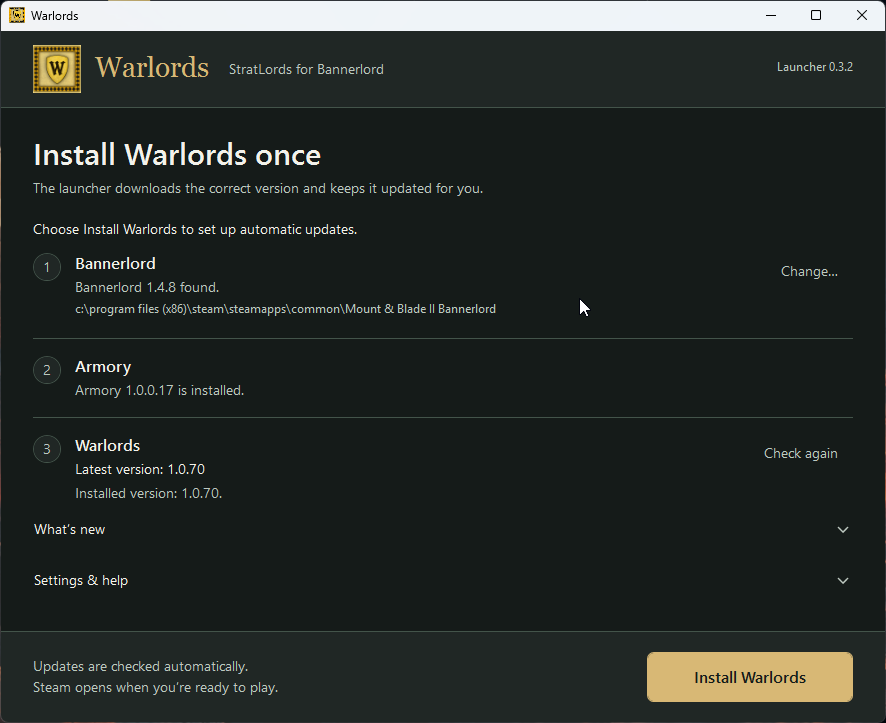
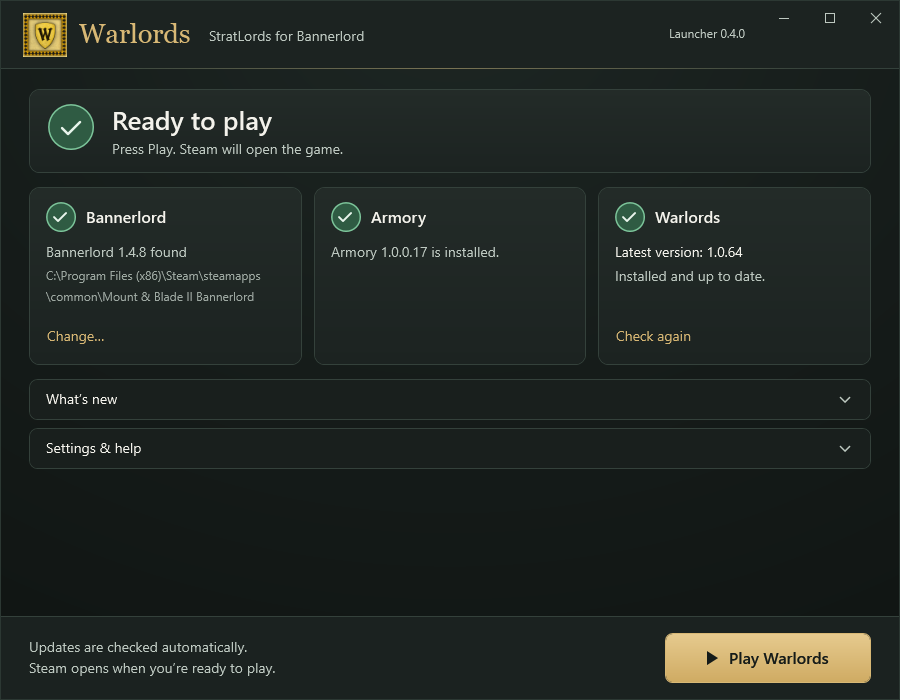
Point the README at the launcher 0.4.0 VirusTotal scan
VirusTotal: 0/64 for Warlords.exe 0.4.0
(sha256 41392fa1a752b457ce32c9343cf67e85ece6884bbf57968f57257f19e8a33032).
Show the new launcher look in docs/launcher.png.

Claude-Session: https://claude.ai/code/session_01RHB2TJFWfakUtW3mrnvVhJ

diff --git a/README.md b/README.md
@@ -12,11 +12,11 @@ Mount & Blade II: Bannerlord and keeps it up to date. That is all it does.
 
 Yes. You do not have to trust us. You can check it yourself:
 
-- **Virus scan:** [VirusTotal scan of Warlords.exe 0.3.2](https://www.virustotal.com/gui/file/fd1c89d37d16da01e0229e97c1c16e3be85c2c0404e529e86a7baa152c7db8da).
+- **Virus scan:** [VirusTotal scan of Warlords.exe 0.4.0](https://www.virustotal.com/gui/file/41392fa1a752b457ce32c9343cf67e85ece6884bbf57968f57257f19e8a33032).
   VirusTotal checks a file with dozens of antivirus programs at once.
 - **Same file:** in PowerShell, run `Get-FileHash .\Warlords.exe`.
-  For launcher 0.3.2 it must show
[1 lines of base64/hex data omitted]
+  For launcher 0.4.0 it must show
[1 lines of base64/hex data omitted]
   This is the file's fingerprint. It is the same one VirusTotal scanned, and the
   release page lists it in `SHA256SUMS.txt`.
 - **Open code:** every line of the app is in [src/Warlords.Launcher](src/Warlords.Launcher).
